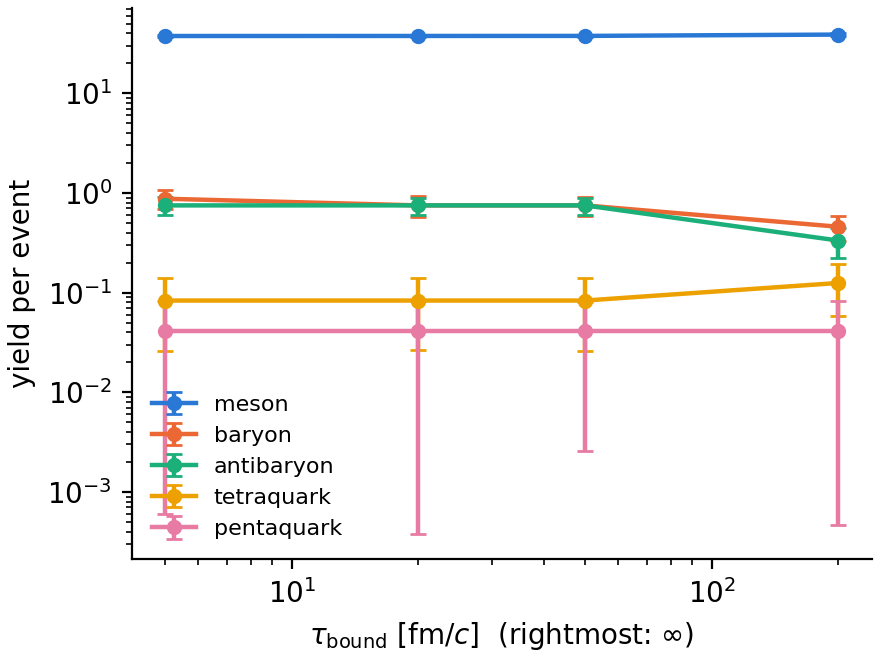
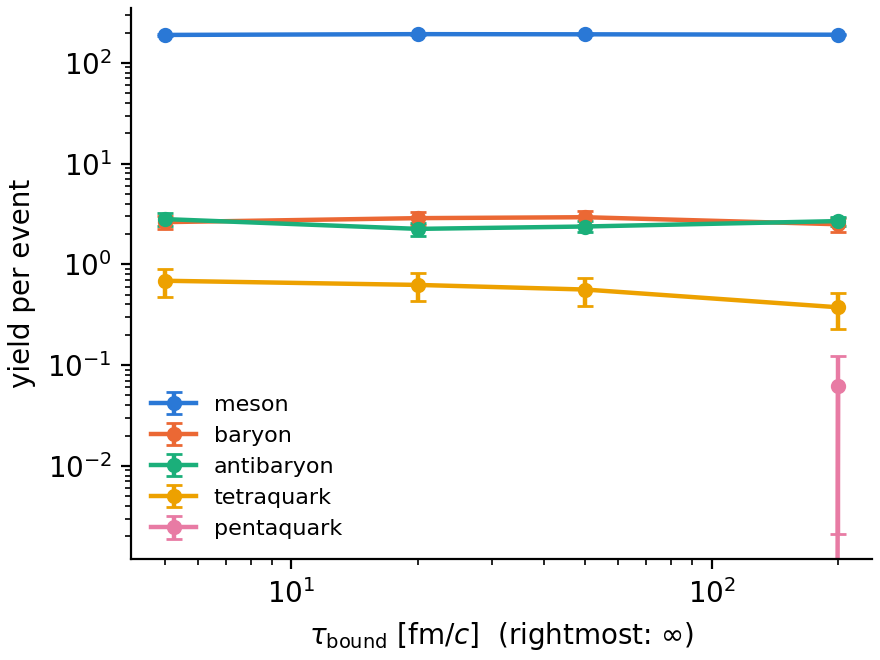
Fig 7 at production scale (N=3000 tau scan from lenore); fix photons-per-event misstatement (was reading ensemble sum as per-event)
Claude-Session: https://claude.ai/code/session_01Q1aNy4k6uAz81qnbnS9jy4

diff --git a/paper/sections/s04_classical_results.tex b/paper/sections/s04_classical_results.tex
@@ -163,17 +163,18 @@ quoted as prescription brackets, $T/M = 3\times10^{-3}$--$2.4\times
 \begin{figure}[t]
 \includegraphics[width=\columnwidth]{figs/fig7_scan_tau.pdf}
 \caption{Species yields versus bound-pair lifetime $\tau_{\rm bound}$ at
-pure photon branching ($P_\gamma=1$).  Meson depletion is mild because
-the bound-pair duty cycle inside $d_{\rm ann}$ is small (effective
-lifetimes $\gg$ the simulated window); the apparent (anti)baryon
-enhancement at finite $\tau_{\rm bound}$ is a $\sim2\sigma$-per-channel
-effect requiring production statistics.}
+pure photon branching ($P_\gamma=1$; $N=3000$, 16 events/point).
+Meson and baryon yields are flat across $\tau_{\rm bound}=5\fm/c$ to
+$\infty$: the bound-pair duty cycle inside $d_{\rm ann}$ makes
+effective lifetimes long compared to the simulated window.}
 \label{fig:scantau}
 \end{figure}
 
-At $P_\gamma=1$ every annihilation removes a pair permanently: $84\pm3$
-photons escape per event, dominated by hot-phase scattering annihilation
-rather than bound-state decay (Fig.~\ref{fig:scantau}).  The
+At $P_\gamma=1$ every annihilation removes a pair permanently
+($14$--$17$ photons escape per event at $N=3000$), yet meson yields
+stay flat at $189$--$193$ across the full $\tau_{\rm bound}$ range
+(Fig.~\ref{fig:scantau}): the loss of $\sim1\%$ of the quarks is
+invisible against ongoing Hubble capture.  The
 lifetime calibration makes this quantitative: prepared bound mesons with
 a reference orbit (duty cycle $0.386$ inside $d_{\rm ann}$) decay with
 $\tau_{\rm eff} = (7.2\text{--}7.3)\,\tau_{\rm bound}$, measured across a